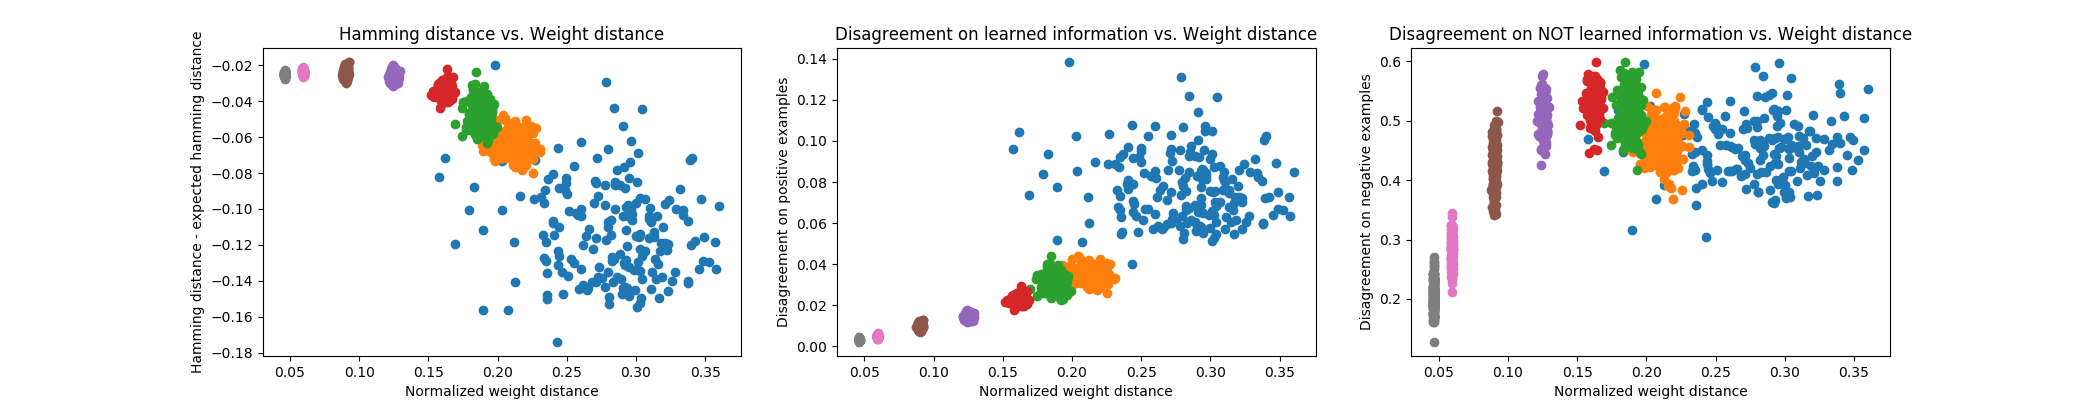
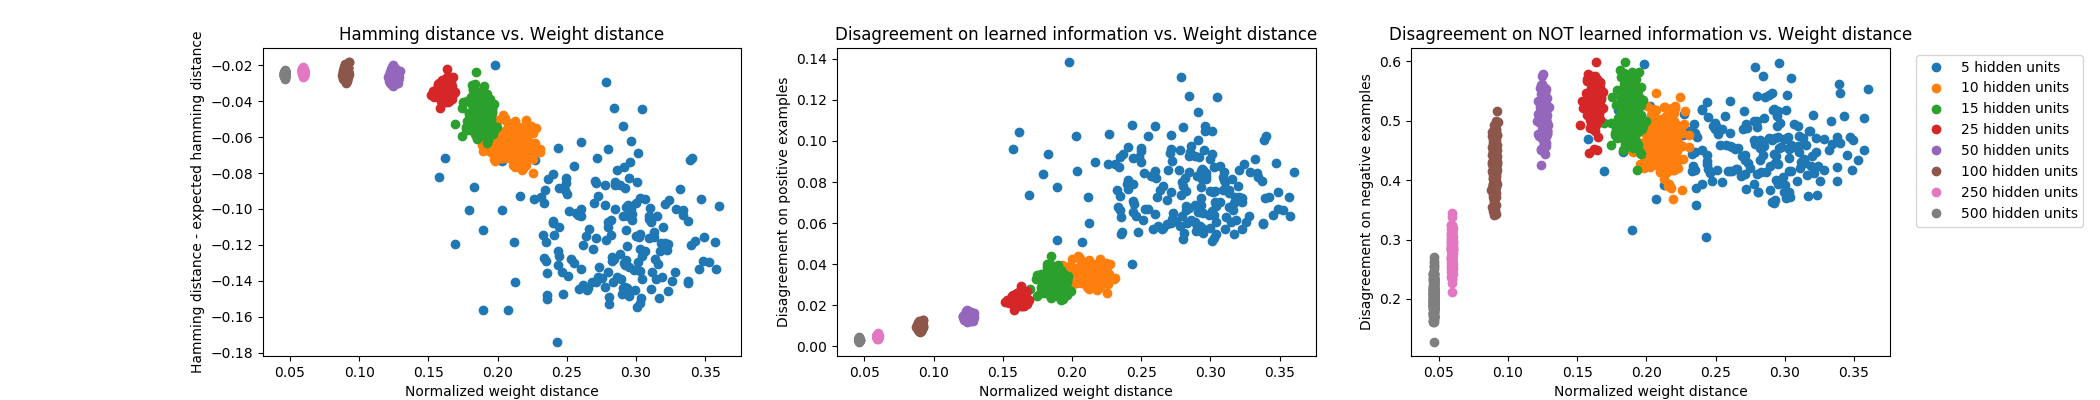
Add legend for plot with all the experiments on it

diff --git a/exp_shallow_nn.py b/exp_shallow_nn.py
@@ -138,6 +138,7 @@ def plot_results(num_hidden, all_ham_dists, all_pos_disagreements, all_neg_disag
     WEIGHT_DIST_LABEL = 'Normalized weight distance'
     DISAGREEMENT_POS_LABEL = 'Disagreement on positive examples'
     DISAGREEMENT_NEG_LABEL = 'Disagreement on negative examples'
+    PLOT_LABEL = '%d hidden units' % num_hidden
     
     num_plots_per_exp = 3
     if same_figure:
@@ -146,25 +147,26 @@ def plot_results(num_hidden, all_ham_dists, all_pos_disagreements, all_neg_disag
         plt.figure(figsize=((DEFAULT_WIDTH + 1) * num_plots_per_exp, DEFAULT_HEIGHT))
     
     plt.subplot(1, num_plots_per_exp, 1)
-    plt.plot(all_weight_dists, all_ham_dists, 'o')
+    plt.plot(all_weight_dists, all_ham_dists, 'o', label=PLOT_LABEL)
     plt.title('Hamming distance vs. Weight distance')
     plt.xlabel(WEIGHT_DIST_LABEL)
     plt.ylabel(HAMM_DIST_LABEL)
     
     plt.subplot(1, num_plots_per_exp, 2)
-    plt.plot(all_weight_dists, all_pos_disagreements, 'o')
+    plt.plot(all_weight_dists, all_pos_disagreements, 'o', label=PLOT_LABEL)
     plt.title('Disagreement on learned information vs. Weight distance')
     plt.xlabel(WEIGHT_DIST_LABEL)
     plt.ylabel(DISAGREEMENT_POS_LABEL)
     
     plt.subplot(1, num_plots_per_exp, 3)
-    plt.plot(all_weight_dists, all_neg_disagreements, 'o')
+    plt.plot(all_weight_dists, all_neg_disagreements, 'o', label=PLOT_LABEL)
     plt.title('Disagreement on NOT learned information vs. Weight distance')
     plt.xlabel(WEIGHT_DIST_LABEL)
     plt.ylabel(DISAGREEMENT_NEG_LABEL)
     
     if same_figure:
         if num_hidden == LAST_HIDDEN_SIZE:
+            plt.legend(bbox_to_anchor=(1.04, 1), loc="upper left")
             plt.savefig('figures/shallow_exp_all.png')
     else:
         plt.savefig('figures/shallow_exp%d.png' % num_hidden)
